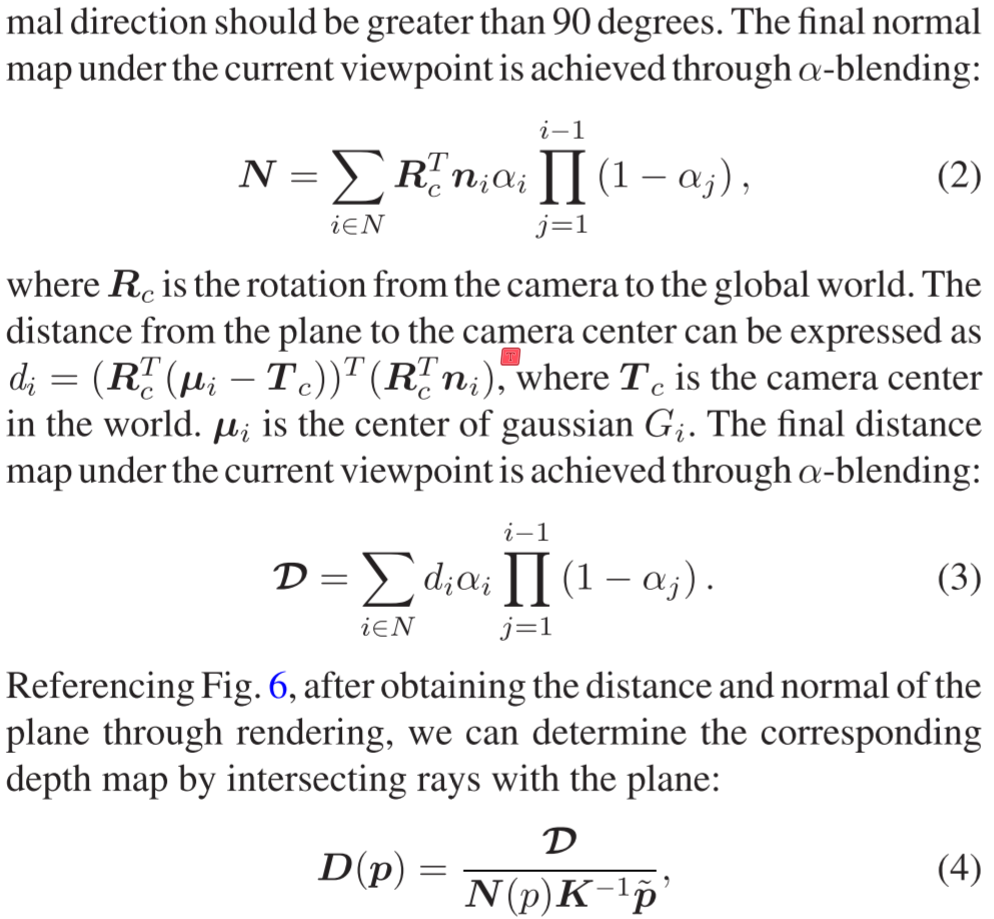
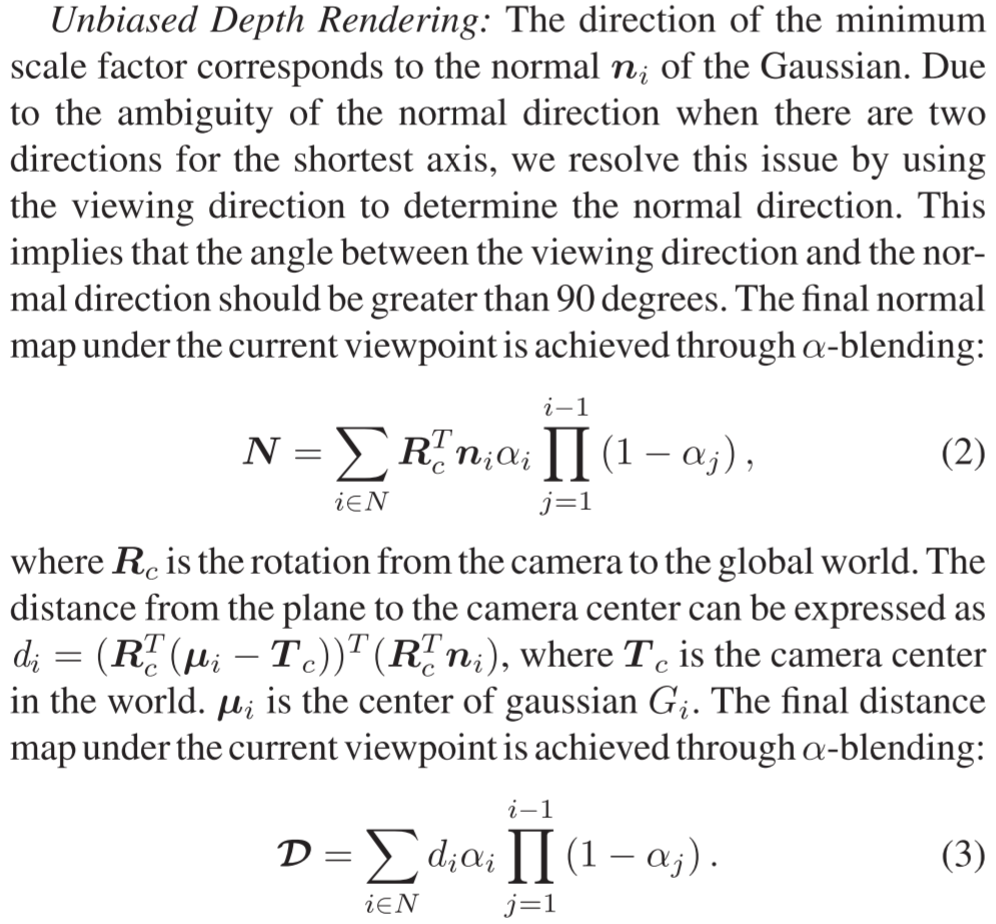
学习3DGS转Mesh方法

Changed region(s): [[0.0, 0.0, 0.998, 1.0], [0.9356, 0.914, 0.998, 0.975]]

diff --git a/学习笔记/图形学/3D高斯表面提取.md b/学习笔记/图形学/3D高斯表面提取.md
@@ -116,6 +116,21 @@ PGSR 的核心创新点有两个：
 
 ![](i/PGSRScale.png)
 
+在渲染深度方面，PGSR 并没有先计算射线每个平面的交点深度，再平均这些深度，而是提出 unbiased depth 先对平面做平均算出一个“平均平面”，再计算射线对这个“平均平面”的交点深度。
+
+具体来说，因为 PGSR 人为规定了一个短轴方向，所以这个短轴方向就是法线，根据法线方向和 Gaussian 位置，每个 Gaussian 都可以写出一个平面方程。
+对于从相机发出的每个射线，其相交的 Gaussian 有这么一个平面方程，PGSR 的策略是先对这些平面方程的参数求alpha-blending，再求这个alpha-blending后的“平均平面”和射线的交点。
+
+![](i/PGSRBlending.png)
+
+由于求射线相交的计算过程中有个除法，平面方程的参数求alpha-blending之后进入这个除法会导致alpha-blending算出的透明度项被抵消。
+
+![](i/PGSRDepth.png)
+
+**所以两条射线从不同方向穿过同一批 3DGS，其相交的平面必然相同！**
+这就是该方法称为 unbias depth 的原因。
+那么很明显，这个方法的优势在于多视角稳定性，这就联系其本文的第二个创新点了：multi-view regularization loss 让多视角互相核验Mesh。
+
 ### (Eurographics 2026) GS-2M
 
 GS-2M 在 PGSR 基础上进一步改进，主要针对反光表面的问题，设计了一种 Mesh 和材质联合优化的方法。
